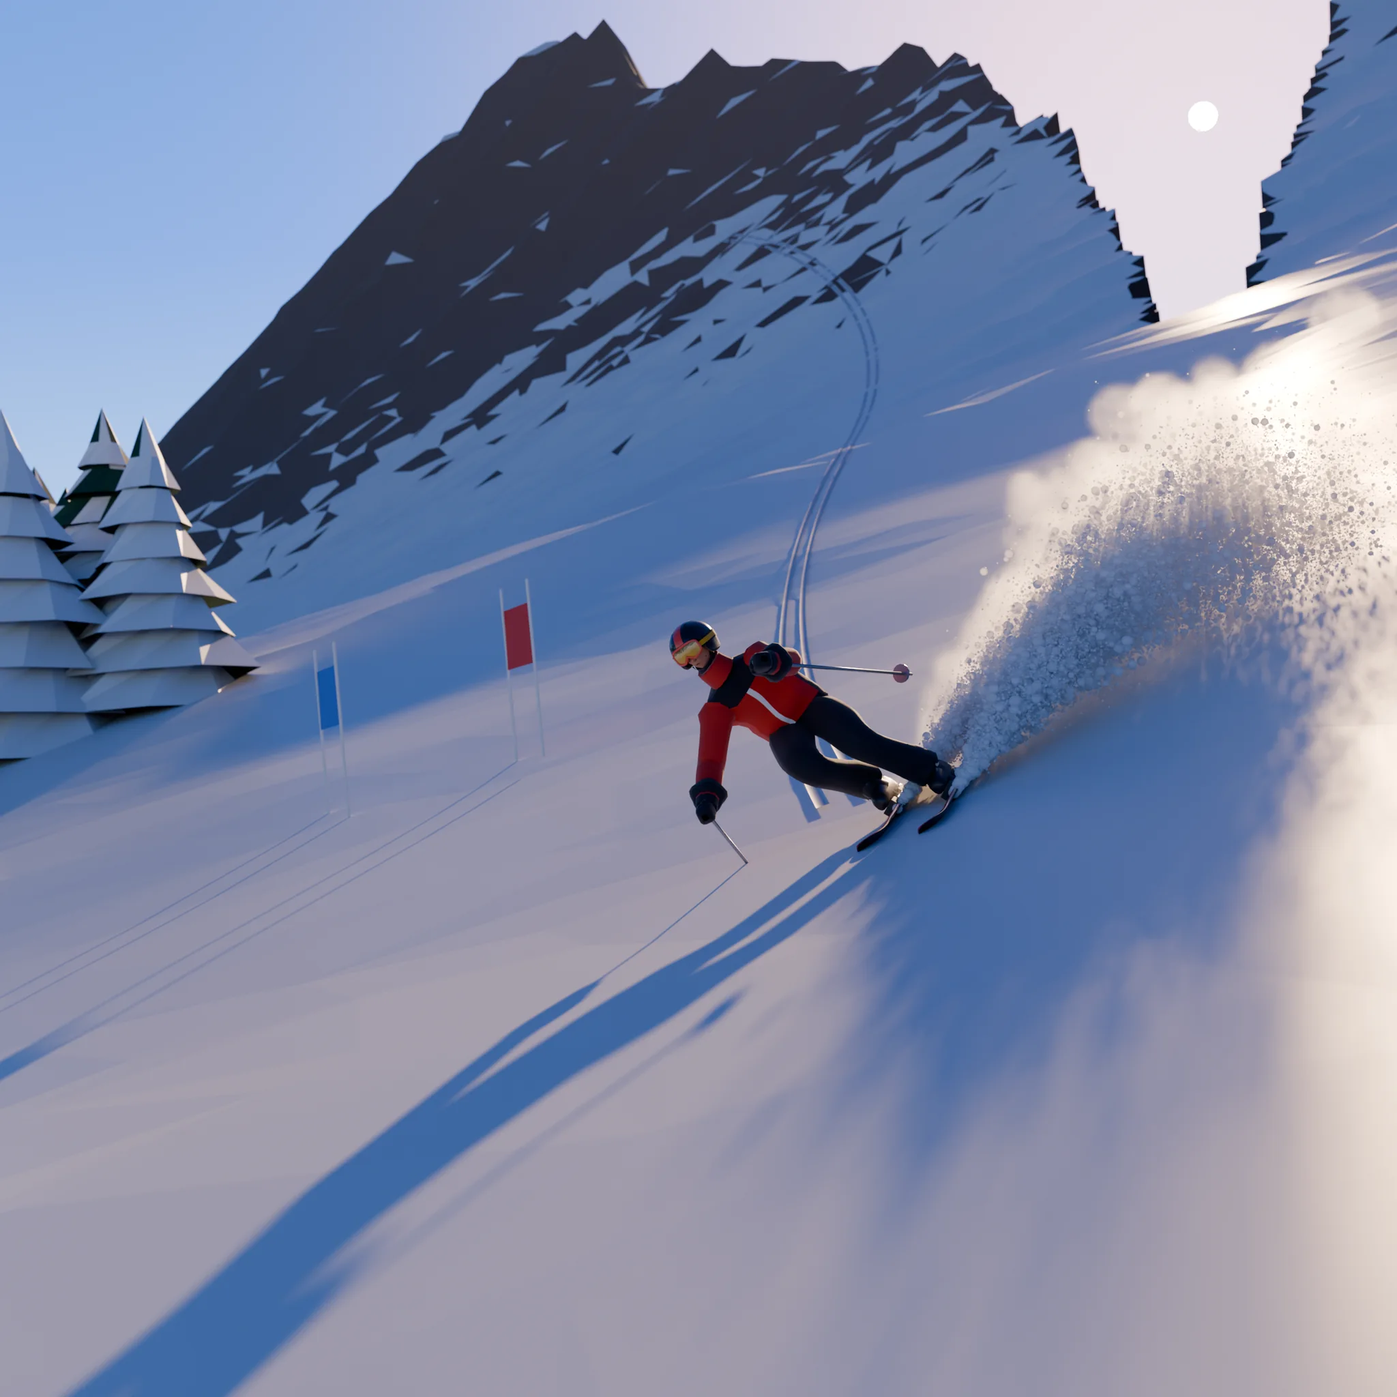
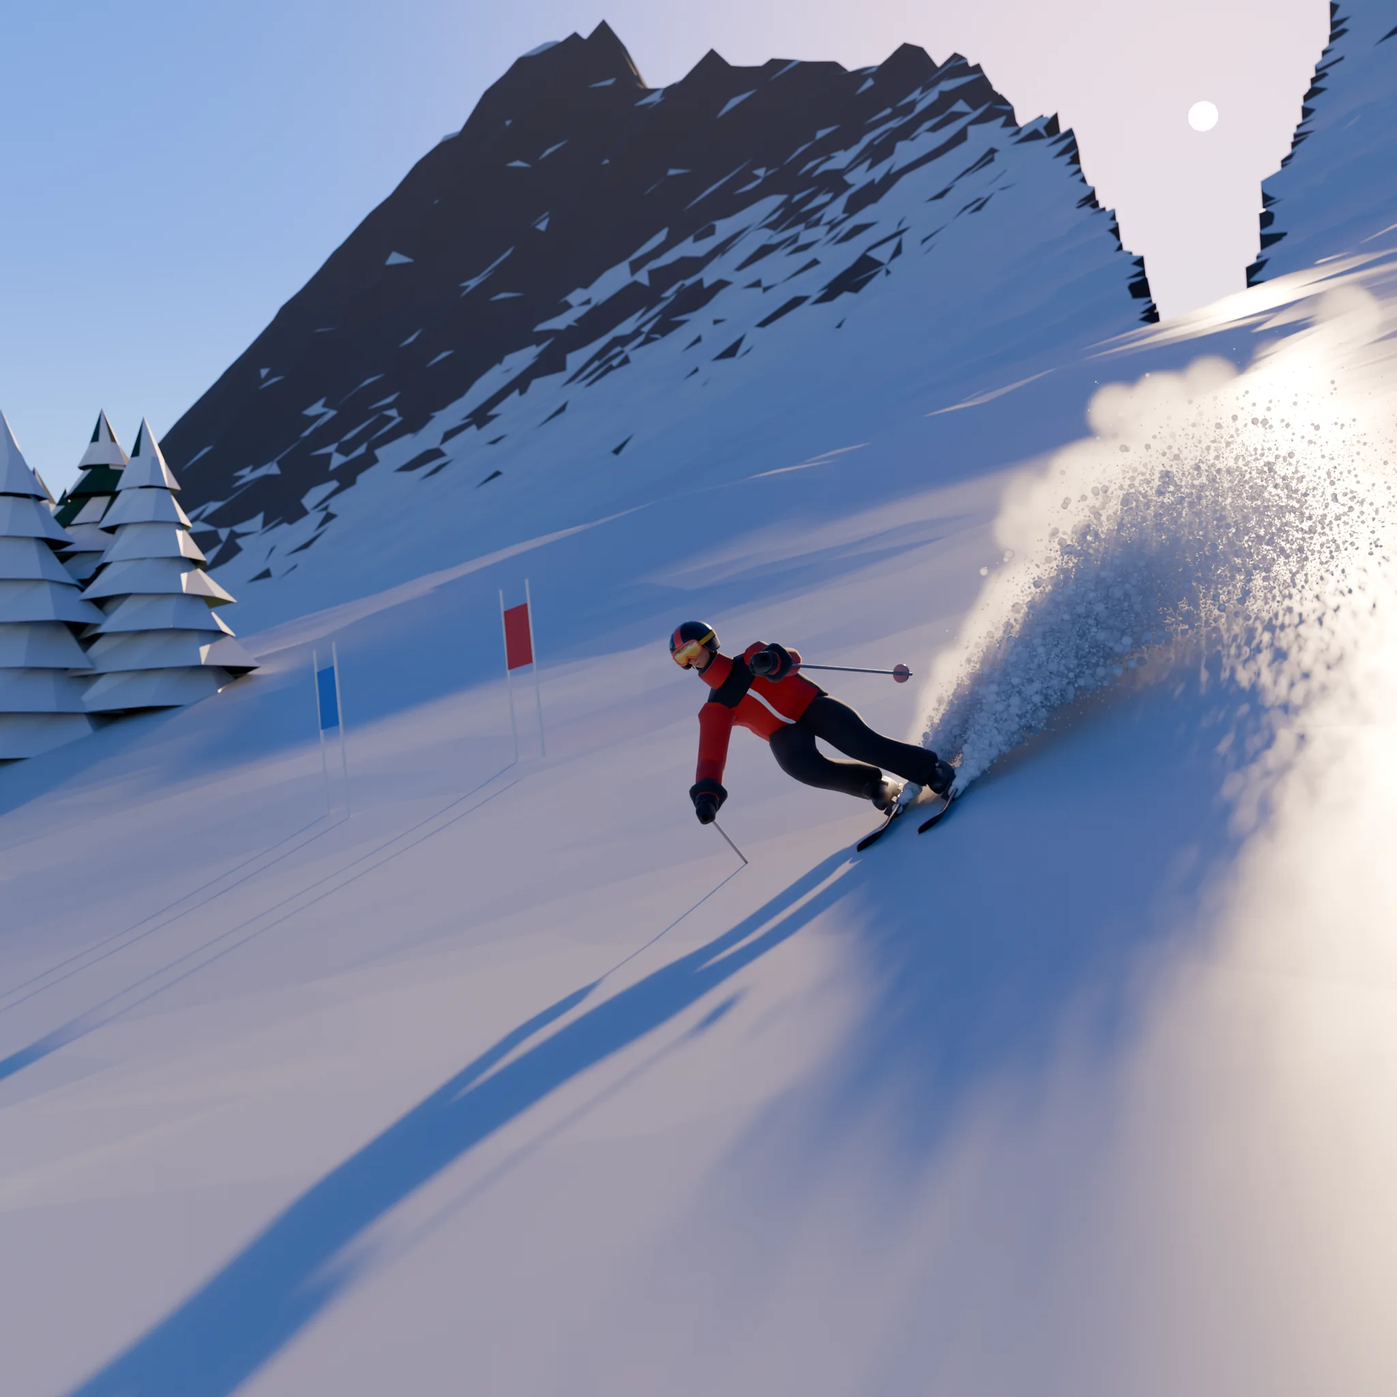
fix(pwa): no track behind the skier on the title scene (#364)
* fix(pwa): no track behind the skier on the title scene

Claude-Session: https://claude.ai/code/session_01BBgM5MVhB7jFoePNdnHx6H

* fix(pwa): re-render the title plates without the track

Claude-Session: https://claude.ai/code/session_01BBgM5MVhB7jFoePNdnHx6H

* style(pwa): format the title plate's JSON

Claude-Session: https://claude.ai/code/session_01BBgM5MVhB7jFoePNdnHx6H

---------

diff --git a/pwa/src/title/plates.ts b/pwa/src/title/plates.ts
@@ -28,7 +28,7 @@ export const TITLE_PLATES = {
  * lab's driver and shelf, the scene's builder and its kind, the skier as
  * the game dresses him (the exporter, the loom and every piece cut on it,
  * the kit, the body, the helmet) and his rig, the carve he is posed from,
- * the palette, the mark cut into the snow, the woods, and the committed
+ * the palette, the woods, and the committed
  * pair he rides. A
  * change to any of them leaves the stamp stale until the scene is
  * rendered again. */
@@ -55,7 +55,6 @@ export const TITLE_SOURCES = [
   "pwa/src/game/helmet-shape.ts",
   "pwa/src/game/skier-pose.ts",
   "pwa/src/game/skier-rig.ts",
-  "pwa/src/game/app-mark.ts",
   "pwa/src/game/tree-variants.ts",
   "pwa/models/chamois.glb",
 ] as const;

diff --git a/scripts/blender/title_spray.py b/scripts/blender/title_spray.py
@@ -1,14 +1,8 @@
 # SPDX-License-Identifier: PolyForm-Noncommercial-1.0.0
-# WHAT THE TITLE SCENE'S SKIER LEAVES: his TRACKS — the logo's own double
-# S (`MARK_TRAILS`, `app-mark.ts`) laid down the face behind him as two
-# grooves a ski's width apart — and the SPRAY his outside edge throws, the
-# hero of the backlit frame: a crescent of grains flown off the edge and a
-# mist of fine powder round it, frozen mid-arc.
-#
-# The tracks are ribbons draped on the snow (raycast onto the faceted
-# mesh), their width held to a few pixels at any distance so the line up
-# the face reads as the mark does; a groove is a bump across the ribbon,
-# shadowed on one wall and lit on the other by the low sun.
+# WHAT THE TITLE SCENE'S SKIER THROWS: the SPRAY his outside edge throws,
+# the hero of the backlit frame: a crescent of grains flown off the edge
+# and a mist of fine powder round it, frozen mid-arc. No track is cut
+# behind him — the spray hides where it would be.
 #
 # The spray is BALLISTIC, not painted: every grain left the edge some
 # fraction of a second ago with the speed the edge shears it off at (out
@@ -18,64 +12,15 @@
 # renderer draws as spheres, the mist a volume grown off a sparser cut of
 # the same points.
 
-import math
-import re
-
-import bmesh
 import bpy
 import numpy as np
 from mathutils import Vector
 from mathutils.bvhtree import BVHTree
 
-from lib import COL, link
+from lib import link
 
 
-# ---------------------------------------------------------------- the mark
-def _arc_points(x0, y0, r, large, sweep, x1, y1, n):
-    """An SVG circular arc (rx = ry, no rotation) as `n` points."""
-    dx, dy = (x0 - x1) / 2, (y0 - y1) / 2
-    d2 = dx * dx + dy * dy
-    k = math.sqrt(max(0.0, (r * r - d2) / d2))
-    if large == sweep:
-        k = -k
-    cx, cy = k * dy + (x0 + x1) / 2, -k * dx + (y0 + y1) / 2
-    a0 = math.atan2(y0 - cy, x0 - cx)
-    a1 = math.atan2(y1 - cy, x1 - cx)
-    da = a1 - a0
-    if sweep and da < 0:
-        da += 2 * math.pi
-    if not sweep and da > 0:
-        da -= 2 * math.pi
-    return [(cx + r * math.cos(a0 + da * i / n), cy + r * math.sin(a0 + da * i / n)) for i in range(1, n + 1)]
-
-
-def mark_path(d, n=40):
-    """One of the mark's trails (`M … A … A …`) as a polyline."""
-    nums = [float(t) for t in re.findall(r"-?\d+(?:\.\d+)?", d)]
-    x, y = nums[0], nums[1]
-    out = [(x, y)]
-    i = 2
-    while i + 7 <= len(nums):
-        r, _, _, large, sweep, x1, y1 = nums[i:i + 7]
-        out += _arc_points(x, y, r, int(large), int(sweep), x1, y1, n)
-        x, y = x1, y1
-        i += 7
-    return np.array(out)
-
-
-def centreline(trails):
-    """The S between the mark's two trails, from its top to its foot,
-    resampled evenly along its length."""
-    a, b = mark_path(trails[0]), mark_path(trails[1])
-    m = min(len(a), len(b))
-    mid = (a[:m] + b[:m]) / 2
-    seg = np.linalg.norm(np.diff(mid, axis=0), axis=1)
-    s = np.concatenate([[0], np.cumsum(seg)])
-    t = np.linspace(0, s[-1], 400)
-    return np.stack([np.interp(t, s, mid[:, 0]), np.interp(t, s, mid[:, 1])], 1)
-
-
-# ---------------------------------------------------------------- the tracks
+# ---------------------------------------------------------------- the snow
 def bvh_of(ob):
     dg = bpy.context.evaluated_depsgraph_get()
     return BVHTree.FromObject(ob, dg)
@@ -84,99 +29,6 @@ def bvh_of(ob):
 def drape(bvh, x, y):
     hit = bvh.ray_cast(Vector((x, y, 5000.0)), Vector((0, 0, -1)))
     return (hit[0], hit[1]) if hit[0] is not None else (None, None)
-
-
-def tracks(mark, foot_uv, top_uv, ray_of, bvh, cam, material, squash=1.0, stance=0.26, sink=0.025):
-    """The mark's S cut into the snow AS THE LENS SEES IT: its centreline
-    laid in the frame from `foot_uv` (behind his tails) up to `top_uv`
-    (under the summit) — turned and stretched so its chord spans the two,
-    narrowed across it by `squash` — and every point of it cast through
-    the lens onto the snow (`ray_of(u, v)` the world ray), so the logo's
-    own S reads in the picture however the face is foreshortened. Two
-    grooves `stance` apart (wider far off, so a far track still reads),
-    each a ribbon with u along it and v across."""
-    c = centreline(mark["trails"])[::-1]  # from the foot up; y is down, as the frame's v
-    c = c - c[0]
-    chord = np.array(top_uv) - np.array(foot_uv)
-    z = complex(*chord) / complex(*c[-1])
-    w = (c[:, 0] + 1j * c[:, 1]) * z
-    ch = complex(*chord) / abs(complex(*chord))
-    along = (w * ch.conjugate()).real
-    across = (w * ch.conjugate()).imag * squash
-    w = (along + 1j * across) * ch
-    uv = np.stack([w.real, w.imag], 1) + np.array(foot_uv)
-    # Resample evenly in the frame, then onto the snow.
-    seg = np.linalg.norm(np.diff(uv, axis=0), axis=1)
-    s = np.concatenate([[0], np.cumsum(seg)])
-    samples = []
-    for t in np.arange(0, s[-1], 0.0015):
-        p = (float(np.interp(t, s, uv[:, 0])), float(np.interp(t, s, uv[:, 1])))
-        hit = bvh.ray_cast(cam, ray_of(*p))[0]
-        if hit is not None:
-            samples.append(np.array(hit))
-    objs = []
-    for k, off in enumerate((-stance / 2, stance / 2)):
-        verts, faces, uvs = [], [], []
-        for i, p in enumerate(samples):
-            q = samples[min(i + 1, len(samples) - 1)] - samples[max(i - 1, 0)]
-            q = Vector(tuple(q)).normalized()
-            hit, n = drape(bvh, p[0], p[1])
-            if hit is None:
-                hit, n = Vector(tuple(p)), Vector((0, 0, 1))
-            across_w = n.cross(q).normalized()
-            d = (hit - cam).length
-            wd = max(0.08, d * 0.0022)
-            gap = max(off, math.copysign(wd * 1.1, off), key=abs)
-            for j, side in enumerate((-0.5, 0.5)):
-                xy = hit + across_w * (gap + side * wd)
-                h2, n2 = drape(bvh, xy.x, xy.y)
-                verts.append(tuple((h2 if h2 is not None else xy) + n * sink))
-                uvs.append((i * 0.5, j))
-        for i in range(len(samples) - 1):
-            a = 2 * i
-            # A jump across an occluding edge is left open.
-            if (Vector(verts[a + 2]) - Vector(verts[a])).length > 40:
-                continue
-            faces.append((a, a + 2, a + 3, a + 1))
-        me = bpy.data.meshes.new(f"track{k}")
-        me.from_pydata(verts, [], faces)
-        uvl = me.uv_layers.new(name="UVMap")
-        for poly in me.polygons:
-            for li in poly.loop_indices:
-                uvl.data[li].uv = uvs[me.loops[li].vertex_index]
-        me.materials.append(material)
-        objs.append(link(bpy.data.objects.new(f"track{k}", me)))
-    return objs
-
-
-def groove_material(base):
-    """The snow, with a groove pressed across the ribbon's v: its floor and
-    the wall away from the sun darker (in their own shade), its lip bright."""
-    m = base.copy()
-    m.name = "groove"
-    nt = m.node_tree
-    p = nt.nodes.get("Principled BSDF")
-    uv = nt.nodes.new("ShaderNodeUVMap")
-    sep = nt.nodes.new("ShaderNodeSeparateXYZ")
-    nt.links.new(uv.outputs["UV"], sep.inputs[0])
-    # height = -(1 - (2v - 1)²): a round groove across the ribbon
-    a = nt.nodes.new("ShaderNodeMath"); a.operation = "MULTIPLY_ADD"
-    a.inputs[1].default_value = 2.0; a.inputs[2].default_value = -1.0
-    nt.links.new(sep.outputs["Y"], a.inputs[0])
-    sq = nt.nodes.new("ShaderNodeMath"); sq.operation = "MULTIPLY"
-    nt.links.new(a.outputs[0], sq.inputs[0]); nt.links.new(a.outputs[0], sq.inputs[1])
-    bump = nt.nodes.new("ShaderNodeBump")
-    bump.inputs["Strength"].default_value = 0.6
-    bump.inputs["Distance"].default_value = 0.03
-    nt.links.new(sq.outputs[0], bump.inputs["Height"])
-    nt.links.new(bump.outputs["Normal"], p.inputs["Normal"])
-    # The groove's floor holds its own shade.
-    dark = nt.nodes.new("ShaderNodeMix"); dark.data_type = "RGBA"
-    dark.inputs[6].default_value = (0.3, 0.4, 0.58, 1)
-    dark.inputs[7].default_value = tuple(p.inputs["Base Color"].default_value)
-    nt.links.new(sq.outputs[0], dark.inputs[0])
-    nt.links.new(dark.outputs[2], p.inputs["Base Color"])
-    return m
 
 
 # ---------------------------------------------------------------- the spray

diff --git a/scripts/blender/title.py b/scripts/blender/title.py
@@ -1,9 +1,8 @@
 # SPDX-License-Identifier: PolyForm-Noncommercial-1.0.0
 # THE TITLE SCENE — the game's key art, path-traced: "first light on the
 # fall line". A skier alone on a big faceted face, laid over in a carve,
-# his outside edge throwing a backlit rooster tail of spray, the logo's own
-# double S cut into the snow behind him up the face to under its summit,
-# the low sun in a col of the ridge beside it; the steep face and its rock
+# his outside edge throwing a backlit rooster tail of spray (no track cut
+# behind him: the spray hides where it would be), the low sun in a col of the ridge beside it; the steep face and its rock
 # in cold blue shadow, his long shadow thrown at the lens, the crests and
 # the spray lit gold. Built by `scripts/blender.mjs --kind=title`
 # (`make title-scene`) off `kinds/title.mjs`; its plates are published by
@@ -70,10 +69,8 @@ P = {
     "face": (900.0, 0.3, 1.0), "summit": (-1800.0, 260.0, 380.0),
     "shoulder": (3000.0, 5500.0, -1), "notch": (0.0, 4.0, 800.0), "floor": -420.0,
     "facet": 0.012, "rock": 41.0, "tree_line": 380.0,
-    # Where the lens sees them (plate UV): the top of his S (under the
-    # summit) and how wide it is laid across its chord; the two slalom
-    # gates; the box the near stand of spruces stands in (u0, v0, u1, v1).
-    "track_aim": (0.52, 0.17), "track_squash": 1.2,
+    # Where the lens sees them (plate UV): the two slalom gates; the box
+    # the near stand of spruces stands in (u0, v0, u1, v1).
     "gates": ((0.37, 0.545), (0.25, 0.585)), "stand": (0.0, 0.5, 0.25, 0.57),
     # The sun: its elevation and bearing off the lens's (°), strength and
     # colour; the sky's scattering.
@@ -152,15 +149,12 @@ scene.camera = cam
 scene.render.resolution_x = scene.render.resolution_y = SIZE
 bpy.context.view_layer.update()
 
-# ---------------------------------------------------------------- his marks
-groove = S.groove_material(snow)
-# The track leaves the snow just behind his boots.
-tails = hit - travel * 0.9
-# The S up the face to where the lens sees it under the summit.
+# Where a point of the frame (plate UV) looks out into the world.
 tr, br, bl, tl = cd.view_frame(scene=scene)
 def ray_of(u, v):
     return (cam.matrix_world.to_3x3() @ (tl + (tr - tl) * u + (bl - tl) * v)).normalized()
-S.tracks(DATA["mark"], PL.uv_of(cam, tails), P["track_aim"], ray_of, bvh, cam_xy, groove, P["track_squash"])
+
+# ---------------------------------------------------------------- his spray
 # The outside ski: the one further from his centre of gravity across his line.
 side = normal.cross(travel)
 pair_arm = next(o for o in bpy.data.objects if o.type == "ARMATURE" and o.parent and o.parent.name == DATA["pair"]["id"])

diff --git a/.agents/skills/blender-assets/SKILL.md b/.agents/skills/blender-assets/SKILL.md
@@ -52,7 +52,7 @@ pair, `skier` for the figure) — its judging rules apply to a model too.
 | `scripts/blender/rescue.py` | THE AIR AMBULANCE BUILDER (`KIND=rescue`, off the same `HELI`): runs `heli.py`'s builder WHOLE (its source executed as a module up to its run block, then the run block itself) with the livery, the regions and the equipment laid over its names — the same frame, the same three nodes `heli_body` / `heli_rotor` / `heli_tail_rotor`, its own materials `band`, `mark_white`, `emblem` and `searchlight` added to the heli's. Published as `rescue.glb` under the heli's switch, stamped apart as the `rescue` half |
 | `scripts/blender/sled.py` | THE SNOWMOBILE BUILDER (`KIND=sled`, off `SLED` in `engine/game/defs/sled.ts` and the mountain class's trace in `pwa/src/game/sled-look.ts`, the sibling sled game's builder cut into nodes): RIGID NODES and no rig — `sled_body`, `sled_bars` (origin the post's foot), `sled_ski_l` / `sled_ski_r` (origin the spindle's foot), `sled_track` (origin the drive sprocket) with its child `sled_lugs` carrying ONE MORPH (`run`, every paddle moved a step round the loop — kept out of the joins, which would lose the key), and `sled_rack` (the rider's pair and poles, materials `rack_ski` / `rack_trim` / `rack_base` the game dresses). In the TRACE's frame; `sled-view.ts` turns it a half turn and shifts it by `SLED.trace`. Its `.glb` is exported with `export_morph=True`. |
 | `scripts/blender/groomer.py` | THE PISTE MACHINE BUILDER (`KIND=groomer`, off `GROOMER` in `engine/game/defs/groomer.ts` and the class's layout in `pwa/src/game/groomer-look.ts` — the very table the game hangs the lamps' glow and light on, so a glare sits on its lens): RIGID NODES and no rig, ALREADY IN THE ENGINE'S FRAME (no turn in the game) — `groomer_body`, `groomer_cleats` carrying ONE MORPH (`run`, every cleat moved a pitch round both belts; the pitch is the root's `cleatPitch` extra), `groomer_blade` (origin the push frame's hinge), `groomer_heap` (the snow rolled ahead of the blade), `groomer_tiller` (origin the hitch) and `groomer_beacon`. Its stills carry a 1.8 m figure for scale, never exported. |
-| `scripts/blender/title.py` | THE TITLE SCENE BUILDER (`KIND=title`, `make title-scene`; off `kinds/title.mjs`: the palette, the default kit, the reference pair, a carve the ENGINE skied with every bone's frame at its deepest lean, the spruce variants, the logo's S): not a model but a whole path-traced frame — the shot's every number in one dict `P` at its head. `title_world.py` the face (one concave hero face, a summit on its ridge, a col cut on the sun's bearing from the skier so the low sun lights him), the far ranges, the sky (the disc shown to the lens alone, a halo, a separate fill strength), the haze, the woods and the gates; `title_rider.py` the skier and his pair imported (the skier is THE GAME'S OWN DRESSED SKIN, the default kit cut on the loom and written skinned to `previews/blender/dressed-skier.glb` by `scripts/dressed-skier.mjs` — so a change to the dress moves the title's stamp and owes a re-render), posed bone by bone and set on the snow, the poles laid in the world; `title_spray.py` the S cut into the snow LAID IN THE FRAME and cast onto it (so it reads however the face is foreshortened), the rooster tail and its mist; `title_plates.py` the render (one multilayer EXR, the PNG through the view transform), the colour and aux WebPs, the JSON projected through the lens and the crops and aux contact sheets. `scripts/title-plates.mjs` publishes into `pwa/src/title/` with the stamp `plates.ts` lists |
+| `scripts/blender/title.py` | THE TITLE SCENE BUILDER (`KIND=title`, `make title-scene`; off `kinds/title.mjs`: the palette, the default kit, the reference pair, a carve the ENGINE skied with every bone's frame at its deepest lean, the spruce variants): not a model but a whole path-traced frame — the shot's every number in one dict `P` at its head. `title_world.py` the face (one concave hero face, a summit on its ridge, a col cut on the sun's bearing from the skier so the low sun lights him), the far ranges, the sky (the disc shown to the lens alone, a halo, a separate fill strength), the haze, the woods and the gates; `title_rider.py` the skier and his pair imported (the skier is THE GAME'S OWN DRESSED SKIN, the default kit cut on the loom and written skinned to `previews/blender/dressed-skier.glb` by `scripts/dressed-skier.mjs` — so a change to the dress moves the title's stamp and owes a re-render), posed bone by bone and set on the snow, the poles laid in the world; `title_spray.py` the rooster tail and its mist (no track is cut behind him — the spray hides where it would be); `title_plates.py` the render (one multilayer EXR, the PNG through the view transform), the colour and aux WebPs, the JSON projected through the lens and the crops and aux contact sheets. `scripts/title-plates.mjs` publishes into `pwa/src/title/` with the stamp `plates.ts` lists |
 | `scripts/blender/skis.py` | THE SKIS BUILDER: the two skis (the tip's rise and the rocker, the sidecut's waist, the tail; the topsheet, the base, the edges), the bindings at the mount, the boots in them, the poles with their baskets and grips — every dimension off the spec and the trace |
 | `pwa/src/tools/skis-harness.ts` + `scripts/skis-preview.mjs` | THE ASSET SHEETS (`make skis ARGS=--asset=a.glb,b.glb`): `asset` — the builder's pair in the first row, each model below it, every one stood on by the game's skier through `skierStance`; `rig` — builder and models posed at the same engine moments (an edge each way, each leg's compression, the skid); `clips` — the first model's clips played across their length (and a `--skier=` model's, him alone); `figure` — a modelled skier beside the game's own on the builder's pair in every pose. A `--skier=` model also stands on the models on the asset and rig sheets |
 | `pwa/src/game/ski-rig.ts` | THE GAME'S SIDE OF THE RIG: a modelled pair posed off `SkierState` exactly as `ski-gear.ts` / `skis-body.ts` pose the builder's (the skis turned by `skiAngle`, tipped by `edge`, each riding its leg's compression; the poles planted or tucked), and its clips played |

diff --git a/AGENTS.md b/AGENTS.md
@@ -127,7 +127,7 @@ This project is tuned by measuring and LOOKING, not guessing. Each lab below is 
 | The skis' look, their topsheets (one a pair) | `skis` (every sheet), `world`, `screenshots`, `profile` | `ski-design` |
 | A game asset MODELLED in Blender (a pair of skis, the skier) | `blender` (render, then `ARGS=--quality=game`), `skis ARGS=--asset=…` / `--skier=…` (the `asset`, `rig`, `clips` and `figure` sheets) | `blender-assets` |
 | The modelled skis IN THE GAME (the models themselves, the switch, the dress, the posing) | `models` (then commit `pwa/models/`), `make build` and `screenshots` (`--surface skis` too); the code-built look with `VITE_MODEL_SKIS=0 make build` | `blender-assets` |
-| THE TITLE SCENE: the key art rendered in Blender (`scripts/blender/title.py` and its `title_*.py` modules, `kinds/title.mjs`) — the face, the skier's pose and place, the S cut into the snow, the spray, the light and the sky, the lens and the two safe crops; the plates and their JSON | a draft (`TITLE_SIZE=768 make blender KIND=title ARGS=--samples=32`, LOOK at `previews/blender/title-colour.png` and `title-crops.png`), then `title-scene` (commit `pwa/src/title/`), `npx vitest run tests/title_scene_test.ts` | `blender-assets`, `menu-system` |
+| THE TITLE SCENE: the key art rendered in Blender (`scripts/blender/title.py` and its `title_*.py` modules, `kinds/title.mjs`) — the face, the skier's pose and place, the spray, the light and the sky, the lens and the two safe crops; the plates and their JSON | a draft (`TITLE_SIZE=768 make blender KIND=title ARGS=--samples=32`, LOOK at `previews/blender/title-colour.png` and `title-crops.png`), then `title-scene` (commit `pwa/src/title/`), `npx vitest run tests/title_scene_test.ts` | `blender-assets`, `menu-system` |
 | THE TITLE SCENE AS DRAWN: the plates brought to life (`title-glsl.ts`, `title-renderer.ts` — the parallax, the snow and the spray's grains, the spindrift, the sparkle, the rays, the halo, the bloom, the grade), the framing and the drift (`title-plan.ts`), the attract card's reveal and the logo's flight into the door (`splash-screen.tsx`, `title.css`), the backdrop the door stands over (`title-app.tsx`, `shell.ts`'s `Backdrop`) | `title` (before and after: `ARGS="--menu --sheet"`), `npx vitest run tests/title_plan_test.ts tests/menu_system_test.ts`, `screenshots ARGS="--surface splash,menu,menu-race,pause"` | `menu-system`, `game-feel`, `visual-effects` |
 | THE SKIER'S GEAR: a jacket, pants, a helmet, gloves or poles, a body, a garment's cut, colourway or fit at a joint, the DRESS card | `gear` (every sheet before and after; `ARGS=--sheet=compare --model=…` a Blender skier beside; `ARGS="--sheet=refs --refs=DIR"` local photographs beside, never committed), `npx vitest run tests/outfit_test.ts`, `skier` (the moves), then `make build` and `screenshots ARGS="--surface skis,dress"` | `skier-gear`, `skier` |
 | The skier: his look, his pose, how he MOVES (the skate, the double pole, the jump, the stop, the carve) | `skier-metrics` (the pose measured against a skier's bands — keep the `--json` before and `--compare` after), `skier` (every move skied by the engine, the models posed through it from five sides, and the turntable; `ARGS=--sheet=closeup,detail,game,stretch` at the lab's moments; `ARGS=--sheet=path` where a move TAKES him — strobed from above over the line he draws, with the glide's drift off the gliding ski), `skis ARGS=--sheet=skier`, `skis ARGS=--sheet=poses`, `skis ARGS=--sheet=landing`, `world`, `screenshots` | `skier`, `skier-improvement` |

diff --git a/.changes/unreleased/1791785196-title-no-track.md b/.changes/unreleased/1791785196-title-no-track.md
@@ -1,0 +1,5 @@
+---
+type: Changed
+---
+
+The title scene no longer cuts a track in the snow behind the skier; his spray hides where it would be.
